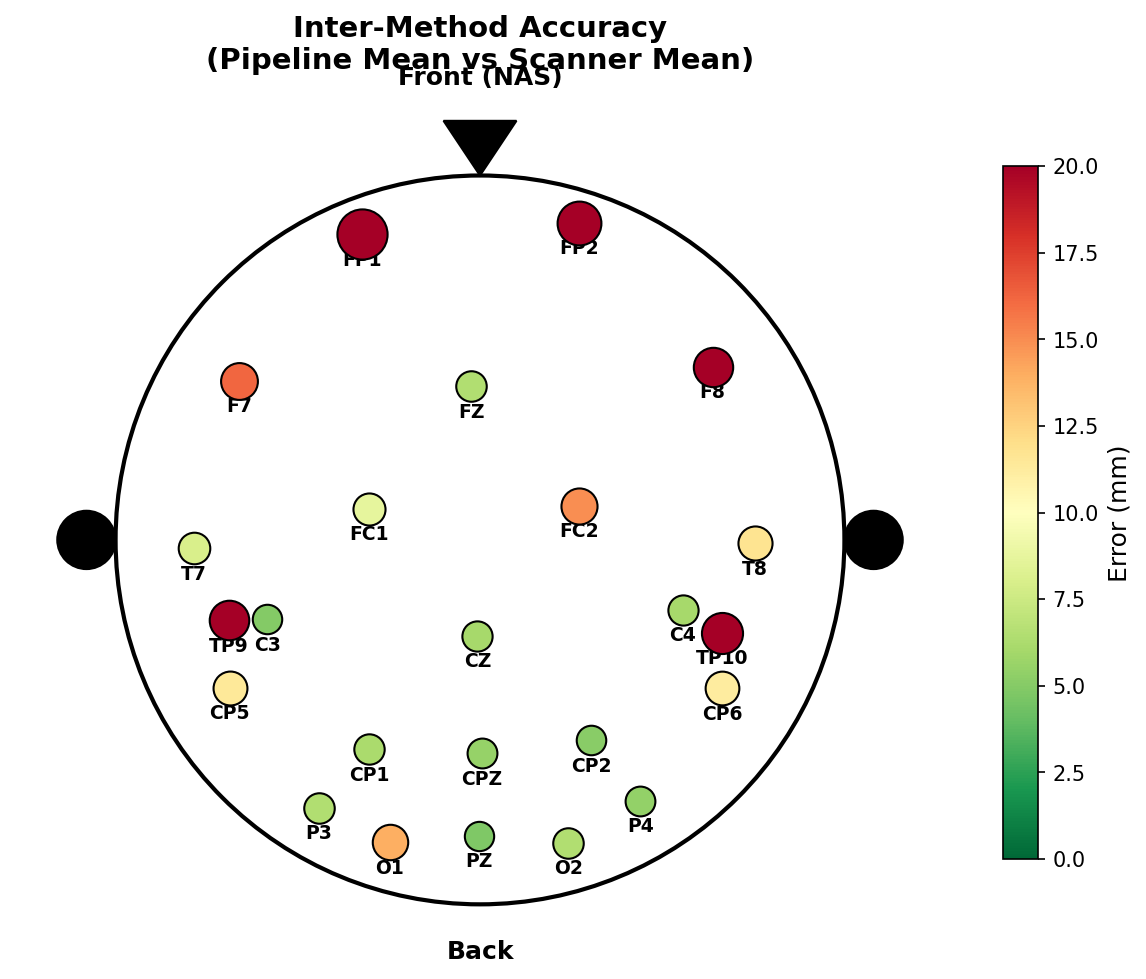
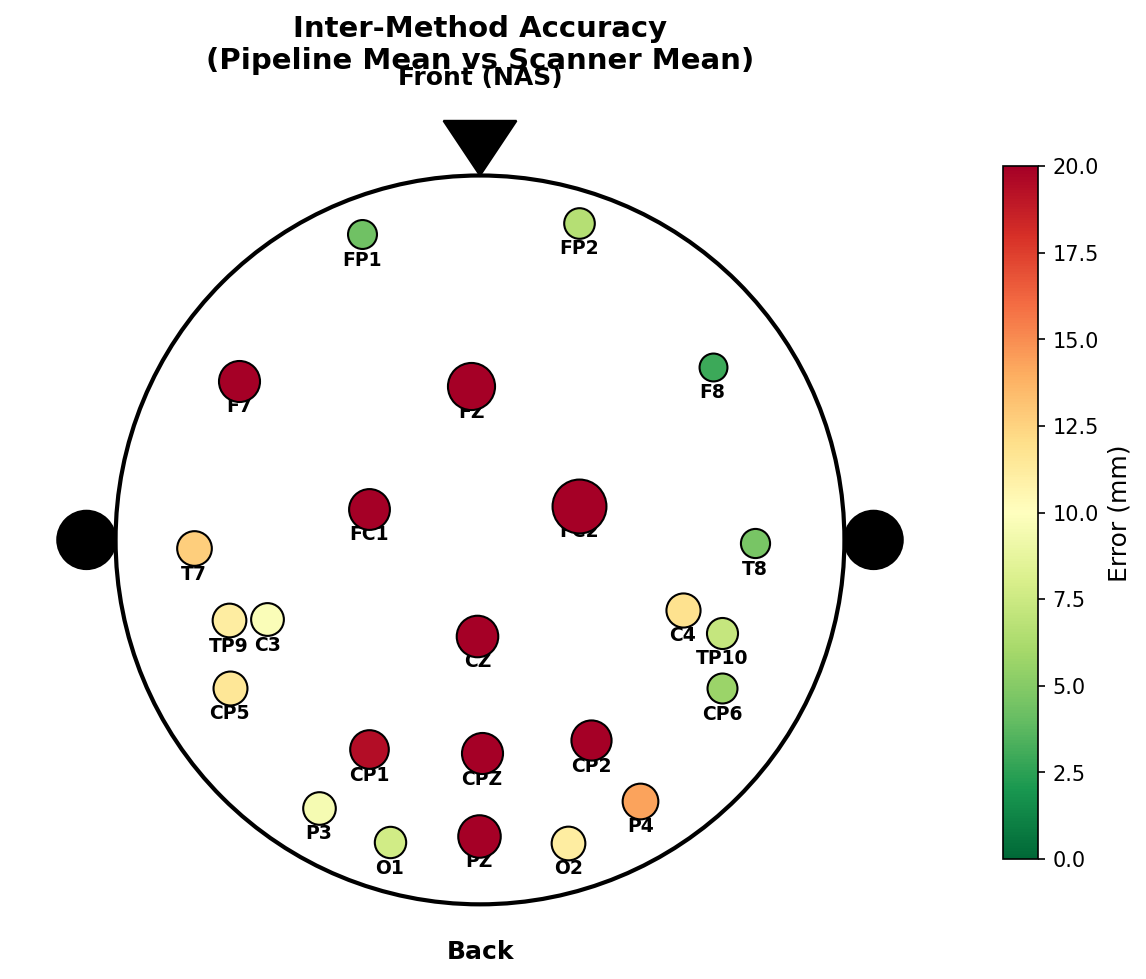
Enhance README and scripts for improved electrode annotation and alignment processes; update visualization outputs for better clarity and reliability.

diff --git a/scripts/Pipeline_analysis_compare_ground_truth.py b/scripts/Pipeline_analysis_compare_ground_truth.py
@@ -67,15 +67,20 @@ def compute_mean_with_residuals(positions_list, names):
     return mean_positions, file_errors
 
 def align_and_match(source_pts, target_mean):
-    """Aligns a single video's points to the master scanner mean using landmarks,
-    then uses NN matching to fix the 'click order' problem."""
+    """Aligns a single video's points to the master scanner mean using:
+    1. Initial Procrustes alignment on landmarks (NAS, LPA, RPA)
+    2. ICP refinement using ALL electrodes
+    3. Hungarian matching for optimal one-to-one assignment
+    Automatically filters out extra electrodes not in scanner data."""
     from scipy.linalg import orthogonal_procrustes
+    from scipy.spatial import KDTree
     
-    # 1. Landmark Alignment
+    # 1. Initial Landmark Alignment (Procrustes)
     src_lms = np.array([source_pts[l] for l in ["NAS", "LPA", "RPA"] if l in source_pts])
     tgt_lms = np.array([target_mean[l] for l in ["NAS", "LPA", "RPA"] if l in target_mean])
     
-    if len(src_lms) < 3: return None
+    if len(src_lms) < 3: 
+        return None
     
     # Procrustes
     mu_s, mu_t = src_lms.mean(0), tgt_lms.mean(0)
@@ -83,25 +88,90 @@ def align_and_match(source_pts, target_mean):
     scale = np.linalg.norm(t_c) / np.linalg.norm(s_c)
     R, _ = orthogonal_procrustes(s_c * scale, t_c)
     
-    # Transform all pipeline points
+    # Apply initial transform to all pipeline points
     aligned = {}
     for k, v in source_pts.items():
         aligned[k] = (v - mu_s) * scale @ R + mu_t
-        
-    # 2. Nearest Neighbor Matching (Fixes different click orders)
+    
+    # 2. ICP Refinement (using all electrodes, not just landmarks)
     scanner_labels = [k for k in target_mean.keys() if k not in LANDMARKS]
     scanner_coords = np.array([target_mean[k] for k in scanner_labels])
     
     pipe_labels = [k for k in aligned.keys() if k not in LANDMARKS]
     pipe_coords = np.array([aligned[k] for k in pipe_labels])
     
-    tree = cKDTree(scanner_coords)
-    dist, idx = tree.query(pipe_coords)
+    if len(pipe_coords) == 0 or len(scanner_coords) == 0:
+        return None
     
-    # Create relabeled dictionary
-    relabeled = {LANDMARKS[i]: aligned[LANDMARKS[i]] for i in range(len(LANDMARKS)) if LANDMARKS[i] in aligned}
-    for i, s_idx in enumerate(idx):
-        relabeled[scanner_labels[s_idx]] = pipe_coords[i]
+    # ICP iterations
+    for iteration in range(20):
+        # Match each pipeline point to nearest scanner point
+        tree = KDTree(scanner_coords)
+        distances, indices = tree.query(pipe_coords)
+        
+        # Get matched scanner points
+        matched_scanner = scanner_coords[indices]
+        
+        # Compute centroids
+        mu_p = pipe_coords.mean(0)
+        mu_s = matched_scanner.mean(0)
+        
+        # Compute optimal rotation (Kabsch algorithm)
+        H = (pipe_coords - mu_p).T @ (matched_scanner - mu_s)
+        U, S, Vt = np.linalg.svd(H)
+        R_icp = Vt.T @ U.T
+        
+        # Ensure proper rotation (not reflection)
+        if np.linalg.det(R_icp) < 0:
+            Vt[-1, :] *= -1
+            R_icp = Vt.T @ U.T
+        
+        # Apply transform
+        pipe_coords_new = (pipe_coords - mu_p) @ R_icp.T + mu_s
+        
+        # Check convergence
+        change = np.linalg.norm(pipe_coords_new - pipe_coords)
+        pipe_coords = pipe_coords_new
+        
+        if change < 0.01:  # Converged (less than 0.01mm change)
+            break
+    
+    # 3. Hungarian Matching (optimal one-to-one assignment)
+    n_pipe, n_scan = len(pipe_coords), len(scanner_coords)
+    cost_matrix = np.zeros((n_pipe, n_scan))
+    for i in range(n_pipe):
+        for j in range(n_scan):
+            cost_matrix[i, j] = np.linalg.norm(pipe_coords[i] - scanner_coords[j])
+    
+    # Hungarian algorithm
+    row_ind, col_ind = linear_sum_assignment(cost_matrix)
+    
+    # Sort by match quality and keep only best N (N = scanner count)
+    match_distances = [(i, j, cost_matrix[i, j]) for i, j in zip(row_ind, col_ind)]
+    match_distances.sort(key=lambda x: x[2])
+    
+    n_to_keep = min(n_scan, len(match_distances))
+    good_matches = match_distances[:n_to_keep]
+    rejected = match_distances[n_to_keep:]
+    
+    if rejected:
+        for i, j, dist in rejected:
+            print(f"  Excluded extra electrode: {pipe_labels[i]} ({dist:.1f}mm from {scanner_labels[j]})")
+    
+    # 4. Build final relabeled dictionary
+    relabeled = {}
+    
+    # Add landmarks (also need ICP transform applied)
+    for lm in LANDMARKS:
+        if lm in aligned:
+            # Apply same ICP transform to landmarks
+            lm_pos = aligned[lm]
+            # We need to track cumulative transform - simplified: use original aligned
+            relabeled[lm] = aligned[lm]
+    
+    # Add matched electrodes with ICP-refined positions
+    for i, j, dist in good_matches:
+        relabeled[scanner_labels[j]] = pipe_coords[i]
         
     return relabeled
 

diff --git a/README.md b/README.md
@@ -22,8 +22,8 @@ The pipeline consists of **two main scripts**:
 
 | Script | Purpose | Key Operations |
 |--------|---------|----------------|
-| **Script 1** | Annotation & Tracking | Crop → Extract frames → VGGT reconstruction → Sequential landmark annotation (NAS→LPA→RPA) → Electrode annotation → 3D triangulation → Save |
-| **Script 2** | 3D Coordinate Processing | Load 3D points → Uncertainty classification → User measurement → Coordinate transform → Scale to mm → Export |
+| **Script 1** | Annotation & Tracking | Crop → Extract frames → VGGT reconstruction → Sequential landmark annotation (NAS→LPA→RPA) → Electrode annotation (with YOLO quality filtering) → 3D triangulation → Review → Save |
+| **Script 2** | 3D Coordinate Processing | Load 3D points → Uncertainty classification → Verify landmarks → User measurement → Coordinate transform → Scale to mm → Export |
 
 ---
 
@@ -36,16 +36,15 @@ flowchart TD
     subgraph Script1 ["Script 1: Annotation & Tracking"]
         direction TB
         Select["1. Select Video"]
-        Crop["2. Interactive Crop<br\>(Define head ROI)"]
-        Extract["3. Extract Frames<br\>(every Nth frame)"]
-        VGGT["4. VGGT Reconstruction<br\>(Camera poses + Depth maps)"]
-        NAS["5a. Annotate NAS<br\>(Window 1: 3-5 clicks)"]
-        LPA["5b. Annotate LPA<br\>(Window 2: 3-5 clicks)"]
-        RPA["5c. Annotate RPA<br\>(Window 3: 3-5 clicks)"]
-        Electrodes["6. Annotate Electrodes<br\>(Window 4: Manual + YOLO)"]
-        Triangulate["7. 3D Triangulation<br\>(Multi-view → 3D positions)"]
-        Quality["8. Quality Filtering<br\>(YOLO 80% confidence)"]
-        Project["9. Project & Track<br\>(3D → 2D all frames)"]
+        Crop["2. Interactive Crop(Define head ROI)"]
+        Extract["3. Extract Frames(every Nth frame)"]
+        VGGT["4. VGGT Reconstruction(Camera poses + Depth maps)"]
+        Landmarks["5. Annotate Landmarks(NAS → LPA → RPA)"]
+        Electrodes["6. Annotate Electrodes(Manual + YOLO 80% filter)"]
+        Triangulate["7. 3D Triangulation(Multi-view → 3D positions)"]
+        Project["8. Project & Track(3D → 2D all frames)"]
+        Review["9. Review Tracking(Accept or Redo)"]
+        Save["10. Save Results"]
         
         Select --> Crop
         Crop --> Extract
@@ -53,12 +52,14 @@ flowchart TD
         VGGT --> Landmarks
         Landmarks --> Electrodes
         Electrodes --> Triangulate
-        Triangulate --> Quality
-        Quality --> Project
+        Triangulate --> Project
+        Project --> Review
+        Review -->|Accept| Save
+        Review -->|Redo| Landmarks
     end
 
     Video --> Select
-    Project -.->|"Video-specific folder"| ResultsFolder[("results/IMG_3841/")]
+    Save -.->|"Video-specific folder"| ResultsFolder[("results/IMG_3841/")]
     ResultsFolder -.-> TrackPkl["tracking_results.pkl"]
     ResultsFolder -.-> Points3D["points_3d_intermediate.pkl"]
     ResultsFolder -.-> Visibility["visibility_stats.pkl"]
@@ -68,22 +69,22 @@ flowchart TD
         direction TB
         SelectRes["1. Select Results Folder"]
         Load3D["2. Load 3D Points"]
-        Verify["3. Verify Landmarks"]
-        Uncertainty["4. Classify Uncertainty"]
+        Uncertainty["3. Classify Uncertainty(Visibility-based)"]
+        Verify["4. Verify Landmarks"]
         Measure["5. User Measurement"]
-        HeadCoord["6. Head Coordinate System"]
-        Scale["7. Scale to mm"]
-        EstInion["8. Estimate INION"]
+        HeadCoord["6. Build Head Coordinate System(includes INION estimation)"]
+        Scale["7. Transform to mm"]
+        Validate["8. Final Verification"]
         Export["9. Export Files"]
         
         SelectRes --> Load3D
-        Load3D --> Verify
-        Verify --> Uncertainty
-        Uncertainty --> Measure
+        Load3D --> Uncertainty
+        Uncertainty --> Verify
+        Verify --> Measure
         Measure --> HeadCoord
         HeadCoord --> Scale
-        Scale --> EstInion
-        EstInion --> Export
+        Scale --> Validate
+        Validate --> Export
     end
 
     ResultsFolder --> SelectRes
@@ -95,7 +96,6 @@ flowchart TD
     
     style FinalJson fill:#90EE90
 ```
-
 ---
 
 ## Installation
@@ -116,12 +116,11 @@ flowchart TD
    - NAS (Nasion): RED sticker
    - LPA (Left ear): BLUE sticker  
    - RPA (Right ear): GREEN sticker
-
 2. **Video recording:**
    - Walk slowly around the subject's head (360° coverage)
    - Record for 30-60 seconds
    - Good lighting (avoid shadows)
-   - Keep camera 50-100cm from head
+   - Keep camera 50 cm from head
 
 3. **File organization:**
    - Place videos in `data/Video_Recordings/`
@@ -163,7 +162,7 @@ flowchart TD
 
 > **If VGGT crashes (out of memory):**
 > - Close other GPU applications
-> - Edit `script1.py` line ~160: `MAX_VGGT_FRAMES = 25`
+> - Edit `script1.py` line ~160: `MAX_VGGT_FRAMES = 15`
 
 ---
 
@@ -195,6 +194,7 @@ flowchart TD
 **Controls (same for all landmark windows):**
 - `A` / `D` - Navigate frames
 - `Left Click` - Add observation for current landmark
+- `R` - Clear all annotations for this landmark
 - `Y` - Accept and move to next landmark
 
 **Tips:**
@@ -204,8 +204,8 @@ flowchart TD
 
 **CRITICAL:** Use **different colored stickers** for each landmark!
 - NAS: RED sticker
-- 🔵 LPA: BLUE sticker
-- 🟢 RPA: GREEN sticker
+- LPA: BLUE sticker
+- RPA: GREEN sticker
 
 ---
 
@@ -220,6 +220,12 @@ flowchart TD
 - `Left Click` - Add electrode (new or add observation to existing)
 - `SPACE` - Run YOLO auto-detection in current frame
 - `Q` - Finish annotation (window closes)
+
+**YOLO Quality Filtering:**
+- YOLO detections below **80% confidence** are automatically rejected
+- This filters out false positives (hair, shadows, reflections)
+- Manual clicks are always accepted (no confidence threshold)
+- You can adjust the threshold by editing `CONFIG["yolo_conf_accept"]` in script1.py
 
 **Recommended workflow:**
 
@@ -243,15 +249,15 @@ flowchart TD
    → Window closes
 
 ```
-**Tips:** Manual clicks works better than YOLO detections. Try to click as much as electrode in different frames.
+**Tips:** Manual clicks works better than YOLO detections. Try to click as much as electrode in different frames. Click electrodes when camera faces them directly.
 
 **Understanding the interface:**
 
 | Visual Element | Meaning |
 |----------------|---------|
-| Red circles | Electrodes detected in current frame |
-| Green circles | Projected electrodes from 3D (not visible in this frame) |
-| Yellow circle | Currently selected electrode |
+| Solid colored circles | Electrodes annotated in current frame |
+| Outlined circles with `*` | Projected electrodes from 3D (visible but not annotated in this frame) |
+| Header info | Frame number, electrode count |
 
 **YOLO Auto-Detection:**
 - Press `SPACE` to run YOLO in current frame
@@ -262,14 +268,46 @@ flowchart TD
 **Tips:**
 - Use `SPACE` for quick bulk detection, then fill gaps manually
 - Click each electrode in 3-5 different frames for best accuracy
-- Clicking near a green (projected) electrode adds an observation to that electrode
+- Clicking near a projected electrode adds an observation to that electrode
 - Don't worry if electrodes only appear in some frames - this is normal due to viewing angles
 
 ---
 
 #### 1.6 Automatic Save
 
-**After pressing `Q` in the electrode annotation window:**
+**After pressing `Q` in electrode annotation, the Review window opens.**
+
+**Goal:** Verify that tracking looks correct before saving
+
+**Controls:**
+- `A` / `D` - Navigate frames (single step)
+- `W` / `S` - Navigate frames (10 frames at a time)
+- `P` - Toggle playback (auto-advance through frames)
+- `SPACE` - Accept tracking and save results
+- `R` - Redo annotation (returns to landmark annotation)
+- `Q` - Quit without saving
+
+**What to look for:**
+- Electrodes should stay in consistent positions on the head
+- Projected points (from 3D) should align with visible electrodes
+- Check multiple viewing angles (front, back, sides)
+
+**Interface shows:**
+- Frame number and total frames
+- PLAY/PAUSE status
+- Number of tracked points in current frame
+- Whether frame has VGGT data or uses interpolation
+
+**Tips:**
+- Use `P` to play through the video and spot any tracking jumps
+- If tracking looks wrong, press `R` to redo annotations
+- Pay attention to frames marked "interp" (interpolated) - these may be less accurate
+
+---
+
+#### 1.7 Automatic Save
+
+**After pressing `SPACE` in the Review window:**
 
 1. Window closes
 2. Script automatically processes and saves results
@@ -326,9 +364,10 @@ Next: python scripts/script2.py
 ```
 
 **What this means:**
-- All electrodes included (no exclusions!)
-- Uncertainty based on visibility frequency
-- Low visibility = normal for temporal/occipital electrodes
+- All electrodes are included (no exclusions!)
+- Uncertainty is based on visibility frequency across frames
+- Low visibility is normal for temporal/occipital electrodes (due to head geometry)
+- Uncertainty levels are saved as metadata in the JSON output
 
 ---
 
@@ -445,11 +484,13 @@ Units:  Millimeters (mm)
 
 | Problem | Solution |
 |---------|----------|
-| **VGGT out of memory** | Reduce `MAX_VGGT_FRAMES` to 25 |
+| **VGGT out of memory** | Reduce `MAX_VGGT_FRAMES` to 10 in Script1 |
 | **"LPA-RPA distance too small"** | Use different colored stickers |
 | **"Missing landmarks"** | Re-run Script 1, click in 3-5 frames |
 | **High uncertainty** | Add more observations from different angles |
 | **YOLO rejects all** | Lower `yolo_conf_accept` to 0.60 |
+| **Tracking looks wrong in review** | Press `R` to redo annotations |
+| **Asymmetric LPA-RPA** | Check landmark annotations; may have swapped LPA/RPA |
 
 ---
 
